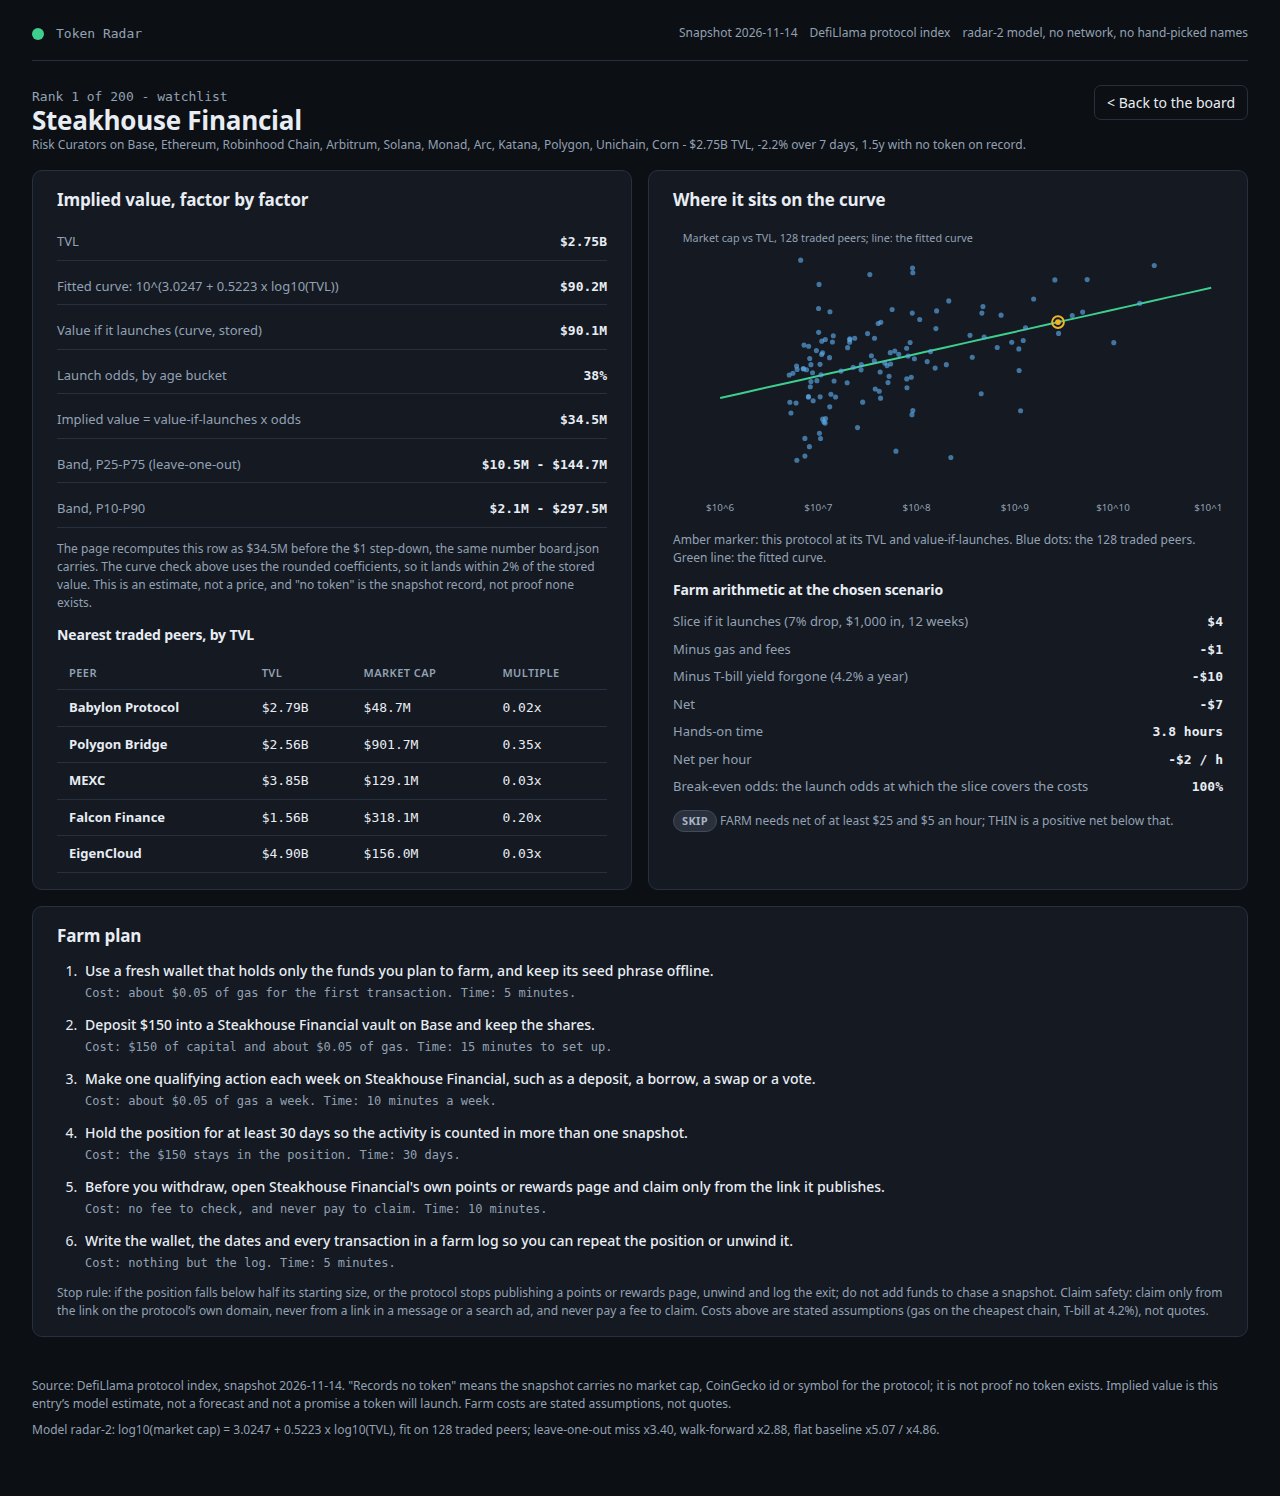
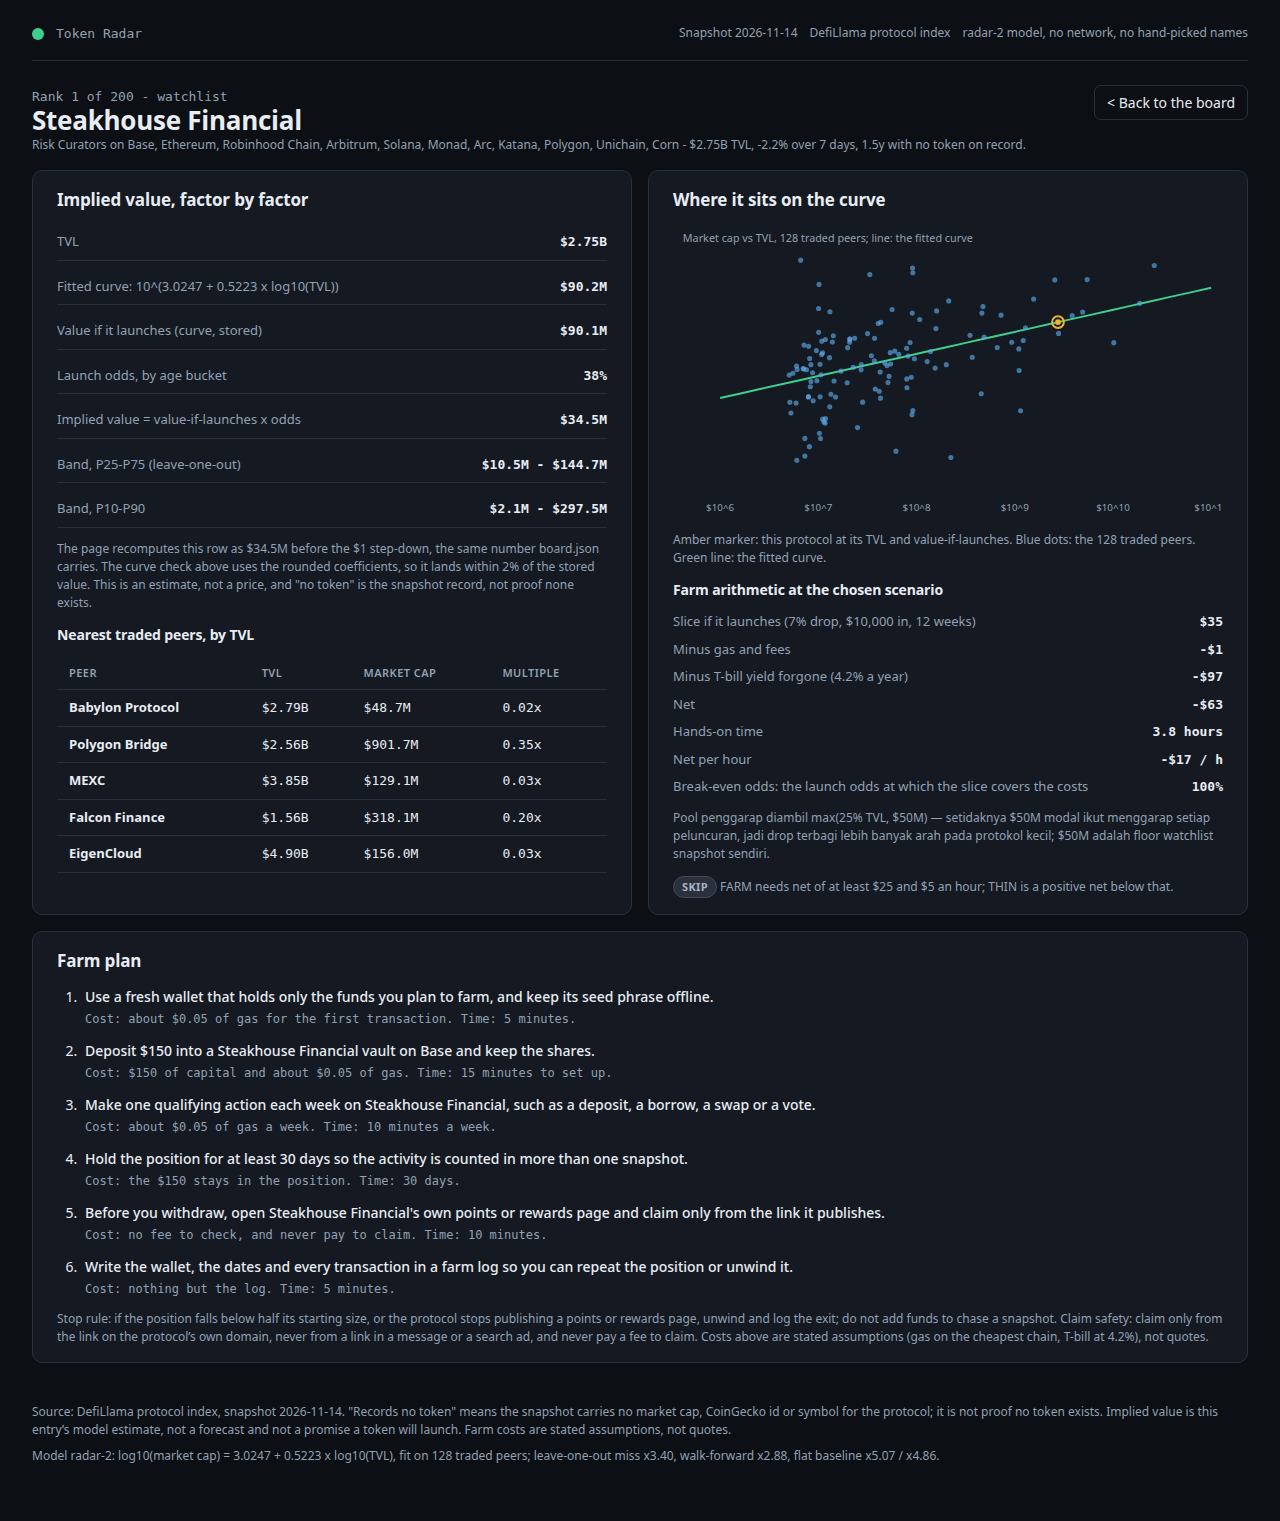
Token radar round 2: farm pool max(25% TVL, $50M), default deposit $10K
Pool floor tames small-TVL rows: FARM @ $1K 59 -> 0, @ $10K 177 -> 6
(six FARM: lightning-network, plume-vaults, hive-protocol, lofty, noble,
r25); rank-1 net @ $10K stays -$62.62 SKIP. Default deposit $1K -> $10K
with a $10,000 option added to the Deposit control; pool sentence added
to model.ts and the detail view. Value curve, odds, implied values and
farm-step text unchanged; main.ts runs byte-identical twice, screenshots
re-rendered with 0 console errors and 0 external requests.

diff --git a/dashboard/app.js b/dashboard/app.js
@@ -7,7 +7,7 @@
   var DATA = window.RADAR;
   if (!DATA) return;
   var app = document.getElementById('board');
-  var state = { q: '', category: 'all', chain: 'all', tier: 'all', verdict: 'all', sort: 'implied', dir: -1, deposit: 1000, drop: 0.07, weeks: 12, view: 'board', selected: null };
+  var state = { q: '', category: 'all', chain: 'all', tier: 'all', verdict: 'all', sort: 'implied', dir: -1, deposit: 10000, drop: 0.07, weeks: 12, view: 'board', selected: null };
 
   var usd = new Intl.NumberFormat('en-US', { style: 'currency', currency: 'USD', maximumFractionDigits: 0 });
   function fmtUsd(n) {
@@ -75,7 +75,7 @@
   function gasPerTx(c) { return GAS[c] === undefined ? 1.5 : GAS[c]; }
   function cheapestGas(chains) { if (!chains || !chains.length) return 1.5; return Math.min.apply(null, chains.map(gasPerTx)); }
   function farmMath(row) {
-    var pool = Math.max(1, 0.25 * row.tvl_usd);
+    var pool = Math.max(50000000, 0.25 * row.tvl_usd);
     var gas = cheapestGas(row.chains);
     var slice = row.implied_value_usd * state.drop * state.deposit / pool;
     var fees = gas * (2 + state.weeks + 1);
@@ -256,7 +256,7 @@
     }
     var search = el('input', { type: 'search', id: 'q', placeholder: 'Search name, category or chain', value: state.q, 'aria-label': 'Search the board' });
     search.addEventListener('input', function () { state.q = search.value; writeHash(); render(); });
-    var dep = sel('dep', 'Deposit', [[250, '$250'], [1000, '$1,000'], [5000, '$5,000'], [25000, '$25,000']], state.deposit, function (v) { state.deposit = Number(v); });
+    var dep = sel('dep', 'Deposit', [[250, '$250'], [1000, '$1,000'], [5000, '$5,000'], [10000, '$10,000'], [25000, '$25,000']], state.deposit, function (v) { state.deposit = Number(v); });
     var drop = sel('drop', 'Drop share', [[0.035, '3.5%'], [0.07, '7%'], [0.14, '14%']], state.drop, function (v) { state.drop = Number(v); });
     var hor = sel('hor', 'Horizon', [[4, '4 weeks'], [12, '12 weeks'], [26, '26 weeks']], state.weeks, function (v) { state.weeks = Number(v); });
     var ver = sel('ver', 'Verdict', [['all', 'Any verdict'], ['FARM', 'FARM'], ['THIN', 'THIN'], ['SKIP', 'SKIP']], state.verdict, function (v) { state.verdict = v; });
@@ -433,6 +433,7 @@
             el('div', null, el('span', { text: 'Hands-on time' }), el('b', { text: f.hours.toFixed(1) + ' hours' })),
             el('div', null, el('span', { text: 'Net per hour' }), el('b', { text: fmtMoney(f.nph) + ' / h' })),
             el('div', null, el('span', { text: 'Break-even odds: the launch odds at which the slice covers the costs' }), el('b', { text: Math.round(f.be * 100) + '%' }))),
+          el('p', { class: 'sub', text: 'Pool penggarap diambil max(25% TVL, $50M) — setidaknya $50M modal ikut menggarap setiap peluncuran, jadi drop terbagi lebih banyak arah pada protokol kecil; $50M adalah floor watchlist snapshot sendiri.' }),
           el('p', null, pill(f.verdict), el('span', { class: 'sub', text: '  FARM needs net of at least $25 and $5 an hour; THIN is a positive net below that.' })))),
       el('section', { class: 'panel method' },
         el('h2', { text: 'Farm plan' }),

diff --git a/lib/model.ts b/lib/model.ts
@@ -54,7 +54,7 @@ export const LIVE_ROWS = 24;
 export const TBILL_YIELD = 0.042;
 
 /** Default farm scenario the board first shows: deposit, drop share, horizon in weeks. */
-export const DEFAULT_DEPOSIT = 1000;
+export const DEFAULT_DEPOSIT = 10000;
 export const DEFAULT_DROP_SHARE = 0.07;
 export const DEFAULT_HORIZON_WEEKS = 12;
 
@@ -486,12 +486,13 @@ function wfBrier(all: SnapshotProtocol[], asOf: string, mode: OddsMode): number 
 // ---------------------------------------------------------------- farm economics
 //
 // A farm plan is costed at a chosen deposit: the slice is the farmer's share of the drop, the drop
-// is a share of the implied value, and the farming pool is taken as a quarter of the protocol's
-// TVL, the capital that would show up to farm a launch, so a deposit's slice is pro-rata to its
-// share of that pool. Fees are gas on the protocol's cheapest chain, once to set up, once a week
-// deposit at 4.2% a year for the horizon. Net = slice - fees - T-bill forgone; net/hour divides by
-// the hands-on time. FARM needs net of at least $25 and $5 an hour; THIN is a positive net below
-// that; anything else is SKIP. These are stated assumptions, not quotes.
+// is a share of the implied value, and the farming pool is max(25% of the protocol's TVL, $50M).
+// Pool penggarap diambil max(25% TVL, $50M) — setidaknya $50M modal ikut menggarap setiap peluncuran, jadi drop terbagi lebih banyak arah pada protokol kecil; $50M adalah floor watchlist snapshot sendiri.
+// A deposit's slice is pro-rata to its share of that pool. Fees are gas on the protocol's cheapest
+// chain, once to set up, once a week, plus the T-bill yield forgone on the deposit at 4.2% a year
+// for the horizon. Net = slice - fees - T-bill forgone; net/hour divides by the hands-on time.
+// FARM needs net of at least $25 and $5 an hour; THIN is a positive net below that; anything else
+// is SKIP. These are stated assumptions, not quotes.
 
 /** Gas in dollars for one transaction on a chain; the page uses the same table. */
 export function gasPerTx(chain: string): number {
@@ -529,7 +530,7 @@ export interface FarmMath {
 
 /** The costed verdict for one row at one deposit, drop share and horizon. */
 export function farmMath(row: { tvl_usd: number; chains: string[]; value_if_usd: number; implied_value_usd: number }, deposit: number, dropShare: number, weeks: number): FarmMath {
-  const pool = Math.max(1, 0.25 * row.tvl_usd);
+  const pool = Math.max(50_000_000, 0.25 * row.tvl_usd);
   const gas = cheapestGas(row.chains);
   const slice = (row.implied_value_usd * dropShare * deposit) / pool;
   const fees = gas * (2 + weeks + 1);
